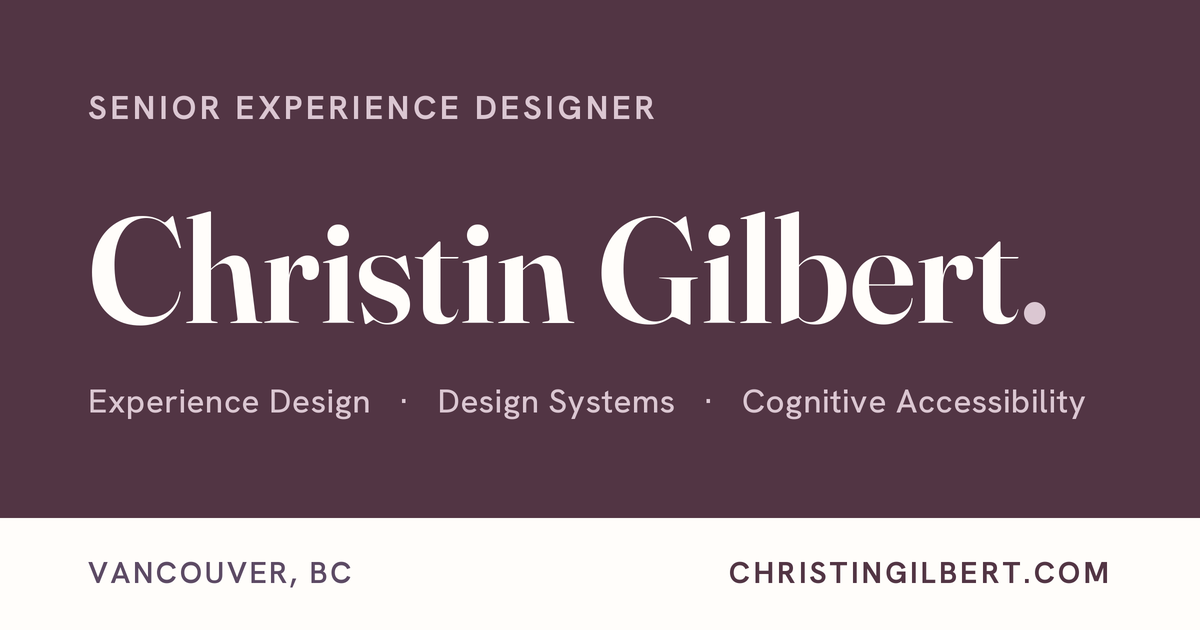
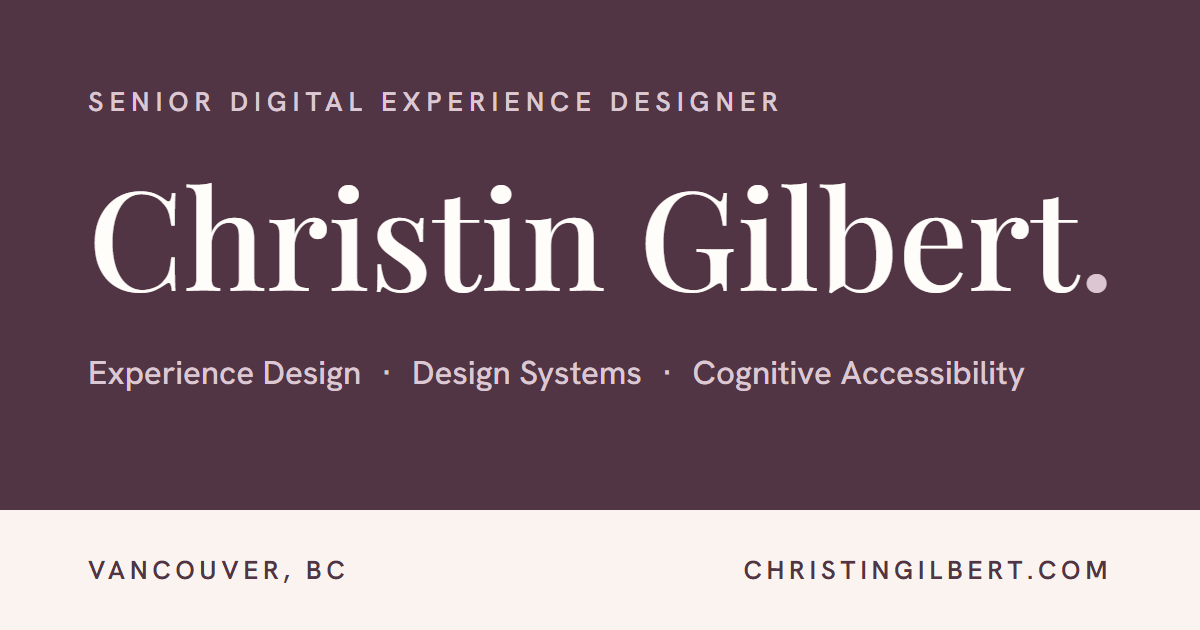
Update title to Senior Digital Experience Designer

diff --git a/about.html b/about.html
@@ -7,7 +7,7 @@
   <link rel="icon" type="image/png" sizes="32x32" href="favicon.png">
   <link rel="icon" type="image/png" sizes="192x192" href="favicon-192.png">
   <link rel="apple-touch-icon" href="favicon-180.png">
-  <title>Christin Gilbert, About | Senior Experience Designer</title>
+  <title>Christin Gilbert, About | Senior Digital Experience Designer</title>
   <link rel="preconnect" href="https://fonts.googleapis.com" />
   <link rel="preconnect" href="https://fonts.gstatic.com" crossorigin />
   <link href="https://fonts.googleapis.com/css2?family=Playfair+Display:ital,wght@0,400;1,400&family=Hanken+Grotesk:ital,wght@0,400;0,500;0,600;0,700;1,400&family=Fraunces:ital,wght@0,400;0,560;0,600;1,500&display=swap" rel="stylesheet" />
@@ -478,23 +478,23 @@ footer {
   
 .nav-name:hover { opacity: 0.78; }</style>
 
-  <meta name="description" content="Senior Experience Designer in Vancouver, BC, working across product design, design systems and accessibility, from reservation interfaces in 2005 to a live stay-choosing prototype in 2026." />
+  <meta name="description" content="Senior Digital Experience Designer in Vancouver, BC, working across product design, design systems and accessibility, from reservation interfaces in 2005 to a live stay-choosing prototype in 2026." />
   <meta name="author" content="Christin Gilbert" />
   <link rel="canonical" href="https://christingilbert.com/about.html" />
-  <meta property="og:title" content="Christin Gilbert, About | Senior Experience Designer" />
-  <meta property="og:description" content="Senior Experience Designer in Vancouver, BC, working across product design, design systems and accessibility, from reservation interfaces in 2005 to a live stay-choosing prototype in 2026." />
+  <meta property="og:title" content="Christin Gilbert, About | Senior Digital Experience Designer" />
+  <meta property="og:description" content="Senior Digital Experience Designer in Vancouver, BC, working across product design, design systems and accessibility, from reservation interfaces in 2005 to a live stay-choosing prototype in 2026." />
   <meta property="og:url" content="https://christingilbert.com/about.html" />
   <meta property="og:image" content="https://christingilbert.com/og-image.png" />
   <meta property="og:image:secure_url" content="https://christingilbert.com/og-image.png">
   <meta property="og:image:type" content="image/png">
   <meta property="og:image:width" content="1200">
   <meta property="og:image:height" content="630">
-  <meta property="og:image:alt" content="Christin Gilbert, About | Senior Experience Designer">
+  <meta property="og:image:alt" content="Christin Gilbert, About | Senior Digital Experience Designer">
   <meta property="og:type" content="website" />
   <meta property="og:site_name" content="Christin Gilbert" />
   <meta name="twitter:card" content="summary_large_image" />
-  <meta name="twitter:title" content="Christin Gilbert, About | Senior Experience Designer" />
-  <meta name="twitter:description" content="Senior Experience Designer in Vancouver, BC, working across product design, design systems and accessibility, from reservation interfaces in 2005 to a live stay-choosing prototype in 2026." />
+  <meta name="twitter:title" content="Christin Gilbert, About | Senior Digital Experience Designer" />
+  <meta name="twitter:description" content="Senior Digital Experience Designer in Vancouver, BC, working across product design, design systems and accessibility, from reservation interfaces in 2005 to a live stay-choosing prototype in 2026." />
   <meta name="twitter:image" content="https://christingilbert.com/og-image.png" />
   <!-- Google tag (gtag.js) -->
   <script async src="https://www.googletagmanager.com/gtag/js?id=G-2RJS395ZQM"></script>
@@ -628,7 +628,7 @@ body::after {
 
     <section class="beat">
       <div class="beat-inner">
-        <p>I'm Christin Gilbert, a Senior Experience Designer based in Vancouver. I've always been fascinated by the boundaries of human cognition: how people compare, choose, pivot and rethink when information demands too much of our attention. My work spans experience design, content structure, cognitive accessibility and visual systems. I think about the structural aspects of the information and what can be removed to allow easier decision making.</p>
+        <p>I'm Christin Gilbert, a Senior Digital Experience Designer based in Vancouver. I've always been fascinated by the boundaries of human cognition: how people compare, choose, pivot and rethink when information demands too much of our attention. My work spans experience design, content structure, cognitive accessibility and visual systems. I think about the structural aspects of the information and what can be removed to allow easier decision making.</p>
         <div class="page-header-photo">
         <div class="about-photo-wrap">
           <img src="about-photo-bw.jpg" alt="Christin Gilbert" class="about-photo" />

diff --git a/index.html b/index.html
@@ -7,7 +7,7 @@
   <link rel="icon" type="image/png" sizes="32x32" href="favicon.png">
   <link rel="icon" type="image/png" sizes="192x192" href="favicon-192.png">
   <link rel="apple-touch-icon" href="favicon-180.png">
-<title>Christin Gilbert, Senior Experience Designer | Vancouver, BC</title>
+<title>Christin Gilbert, Senior Digital Experience Designer | Vancouver, BC</title>
 <script>try{if(localStorage.getItem('cg-reading-focus')==='1')document.documentElement.classList.add('reading-focus');}catch(e){}</script>
 <link rel="preconnect" href="https://fonts.googleapis.com">
 <link rel="preconnect" href="https://fonts.gstatic.com" crossorigin>
@@ -1718,23 +1718,23 @@ body::after {
 
 </style>
 
-  <meta name="description" content="Senior Experience Designer in Vancouver, BC, cognitive accessibility, digital experience design and design systems. Designing for the moments when people have the least attention to spare." />
+  <meta name="description" content="Senior Digital Experience Designer in Vancouver, BC, cognitive accessibility, digital experience design and design systems. Designing for the moments when people have the least attention to spare." />
   <meta name="author" content="Christin Gilbert" />
   <link rel="canonical" href="https://christingilbert.com/" />
-  <meta property="og:title" content="Christin Gilbert, Senior Experience Designer | Vancouver, BC" />
-  <meta property="og:description" content="Senior Experience Designer in Vancouver, BC, cognitive accessibility, digital experience design and design systems. Designing for the moments when people have the least attention to spare." />
+  <meta property="og:title" content="Christin Gilbert, Senior Digital Experience Designer | Vancouver, BC" />
+  <meta property="og:description" content="Senior Digital Experience Designer in Vancouver, BC, cognitive accessibility, digital experience design and design systems. Designing for the moments when people have the least attention to spare." />
   <meta property="og:url" content="https://christingilbert.com/" />
   <meta property="og:image" content="https://christingilbert.com/og-image.png" />
   <meta property="og:image:secure_url" content="https://christingilbert.com/og-image.png">
   <meta property="og:image:type" content="image/png">
   <meta property="og:image:width" content="1200">
   <meta property="og:image:height" content="630">
-  <meta property="og:image:alt" content="Christin Gilbert, Senior Experience Designer | Vancouver, BC">
+  <meta property="og:image:alt" content="Christin Gilbert, Senior Digital Experience Designer | Vancouver, BC">
   <meta property="og:type" content="website" />
   <meta property="og:site_name" content="Christin Gilbert" />
   <meta name="twitter:card" content="summary_large_image" />
-  <meta name="twitter:title" content="Christin Gilbert, Senior Experience Designer | Vancouver, BC" />
-  <meta name="twitter:description" content="Senior Experience Designer in Vancouver, BC, cognitive accessibility, digital experience design and design systems. Designing for the moments when people have the least attention to spare." />
+  <meta name="twitter:title" content="Christin Gilbert, Senior Digital Experience Designer | Vancouver, BC" />
+  <meta name="twitter:description" content="Senior Digital Experience Designer in Vancouver, BC, cognitive accessibility, digital experience design and design systems. Designing for the moments when people have the least attention to spare." />
   <meta name="twitter:image" content="https://christingilbert.com/og-image.png" />
   <!-- Google tag (gtag.js) -->
   <script async src="https://www.googletagmanager.com/gtag/js?id=G-2RJS395ZQM"></script>
@@ -1774,7 +1774,7 @@ body::after {
   </div>
   <div class="hero-scrim"></div>
   <div class="hero-left">
-    <span class="hero-eyebrow">Senior Experience Designer &middot; Vancouver, BC</span>
+    <span class="hero-eyebrow">Senior Digital Experience Designer &middot; Vancouver, BC</span>
     <h1 class="hero-name">Making digital experiences more cognitively accessible</h1>
     <p class="hero-tagline">Hi, I'm Christin. What does a person actually need at the moment they decide, with fifteen tabs open, too many options and little attention left? My first reservation interfaces were for campground booking software in 2005. My work has grown from individual interfaces to thinking more broadly about how content and systems can make space for different ways of thinking.</p>
     <div class="hero-cta">

diff --git a/work.html b/work.html
@@ -7,7 +7,7 @@
   <link rel="icon" type="image/png" sizes="32x32" href="favicon.png">
   <link rel="icon" type="image/png" sizes="192x192" href="favicon-192.png">
   <link rel="apple-touch-icon" href="favicon-180.png">
-<title>Case Studies – Christin Gilbert, Senior Experience Designer</title>
+<title>Case Studies – Christin Gilbert, Senior Digital Experience Designer</title>
 <link rel="preconnect" href="https://fonts.googleapis.com">
 <link rel="preconnect" href="https://fonts.gstatic.com" crossorigin>
 <link href="https://fonts.googleapis.com/css2?family=Playfair+Display:ital,wght@0,400;1,400&family=Hanken+Grotesk:ital,wght@0,400;0,500;0,600;0,700;1,400&family=Fraunces:ital,wght@0,400;0,560;0,600;1,500&display=swap" rel="stylesheet">
@@ -552,23 +552,23 @@ html.reading-focus { font-size: 112%; }
   
 .nav-name:hover { opacity: 0.78; }</style>
 
-  <meta name="description" content="Senior Experience Designer case studies: digital experience design, information architecture, design systems and AI-enabled production, by Christin Gilbert." />
+  <meta name="description" content="Senior Digital Experience Designer case studies: digital experience design, information architecture, design systems and AI-enabled production, by Christin Gilbert." />
   <meta name="author" content="Christin Gilbert" />
   <link rel="canonical" href="https://christingilbert.com/work.html" />
-  <meta property="og:title" content="Case Studies – Christin Gilbert, Senior Experience Designer" />
-  <meta property="og:description" content="Senior Experience Designer case studies: digital experience design, information architecture, design systems and AI-enabled production, by Christin Gilbert." />
+  <meta property="og:title" content="Case Studies – Christin Gilbert, Senior Digital Experience Designer" />
+  <meta property="og:description" content="Senior Digital Experience Designer case studies: digital experience design, information architecture, design systems and AI-enabled production, by Christin Gilbert." />
   <meta property="og:url" content="https://christingilbert.com/work.html" />
   <meta property="og:image" content="https://christingilbert.com/og-image.png" />
   <meta property="og:image:secure_url" content="https://christingilbert.com/og-image.png">
   <meta property="og:image:type" content="image/png">
   <meta property="og:image:width" content="1200">
   <meta property="og:image:height" content="630">
-  <meta property="og:image:alt" content="Case Studies – Christin Gilbert, Senior Experience Designer">
+  <meta property="og:image:alt" content="Case Studies – Christin Gilbert, Senior Digital Experience Designer">
   <meta property="og:type" content="website" />
   <meta property="og:site_name" content="Christin Gilbert" />
   <meta name="twitter:card" content="summary_large_image" />
-  <meta name="twitter:title" content="Case Studies – Christin Gilbert, Senior Experience Designer" />
-  <meta name="twitter:description" content="Senior Experience Designer case studies: digital experience design, information architecture, design systems and AI-enabled production, by Christin Gilbert." />
+  <meta name="twitter:title" content="Case Studies – Christin Gilbert, Senior Digital Experience Designer" />
+  <meta name="twitter:description" content="Senior Digital Experience Designer case studies: digital experience design, information architecture, design systems and AI-enabled production, by Christin Gilbert." />
   <meta name="twitter:image" content="https://christingilbert.com/og-image.png" />
   <!-- Google tag (gtag.js) -->
   <script async src="https://www.googletagmanager.com/gtag/js?id=G-2RJS395ZQM"></script>

diff --git a/resume.html b/resume.html
@@ -7,7 +7,7 @@
   <link rel="icon" type="image/png" sizes="32x32" href="favicon.png">
   <link rel="icon" type="image/png" sizes="192x192" href="favicon-192.png">
   <link rel="apple-touch-icon" href="favicon-180.png">
-  <title>Resume – Christin Gilbert | Senior Experience Designer</title>
+  <title>Resume – Christin Gilbert | Senior Digital Experience Designer</title>
 <meta name="robots" content="noindex, nofollow">
   <link rel="preconnect" href="https://fonts.googleapis.com" />
   <link rel="preconnect" href="https://fonts.gstatic.com" crossorigin />
@@ -507,23 +507,23 @@ html.reading-focus { font-size: 112%; }
   
 .nav-name:hover { opacity: 0.78; }</style>
 
-  <meta name="description" content="Senior experience designer, 15+ years across digital experiences, design systems and cognitive accessibility. Vancouver, BC." />
+  <meta name="description" content="Senior digital experience designer, 15+ years across digital experiences, design systems and cognitive accessibility. Vancouver, BC." />
   <meta name="author" content="Christin Gilbert" />
   <link rel="canonical" href="https://christingilbert.com/resume.html" />
-  <meta property="og:title" content="Resume – Christin Gilbert | Senior Experience Designer" />
-  <meta property="og:description" content="Senior experience designer, 15+ years across digital experiences, design systems and cognitive accessibility. Vancouver, BC." />
+  <meta property="og:title" content="Resume – Christin Gilbert | Senior Digital Experience Designer" />
+  <meta property="og:description" content="Senior digital experience designer, 15+ years across digital experiences, design systems and cognitive accessibility. Vancouver, BC." />
   <meta property="og:url" content="https://christingilbert.com/resume.html" />
   <meta property="og:image" content="https://christingilbert.com/og-image.png" />
   <meta property="og:image:secure_url" content="https://christingilbert.com/og-image.png">
   <meta property="og:image:type" content="image/png">
   <meta property="og:image:width" content="1200">
   <meta property="og:image:height" content="630">
-  <meta property="og:image:alt" content="Resume – Christin Gilbert | Senior Experience Designer">
+  <meta property="og:image:alt" content="Resume – Christin Gilbert | Senior Digital Experience Designer">
   <meta property="og:type" content="website" />
   <meta property="og:site_name" content="Christin Gilbert" />
   <meta name="twitter:card" content="summary_large_image" />
-  <meta name="twitter:title" content="Resume – Christin Gilbert | Senior Experience Designer" />
-  <meta name="twitter:description" content="Senior experience designer, 15+ years across digital experiences, design systems and cognitive accessibility. Vancouver, BC." />
+  <meta name="twitter:title" content="Resume – Christin Gilbert | Senior Digital Experience Designer" />
+  <meta name="twitter:description" content="Senior digital experience designer, 15+ years across digital experiences, design systems and cognitive accessibility. Vancouver, BC." />
   <meta name="twitter:image" content="https://christingilbert.com/og-image.png" />
   <!-- Google tag (gtag.js) -->
   <script async src="https://www.googletagmanager.com/gtag/js?id=G-2RJS395ZQM"></script>

diff --git a/thinking.html b/thinking.html
@@ -4,7 +4,7 @@
   <link rel="icon" type="image/png" sizes="32x32" href="favicon.png">
   <link rel="icon" type="image/png" sizes="192x192" href="favicon-192.png">
   <link rel="apple-touch-icon" href="favicon-180.png">
-<title>Christin Gilbert, Senior Experience Designer</title>
+<title>Christin Gilbert, Senior Digital Experience Designer</title>
 <meta http-equiv="refresh" content="0; url=https://christingilbert.com/writing.html">
 <link rel="canonical" href="https://christingilbert.com/writing.html">
 </head><body>

diff --git a/publications.html b/publications.html
@@ -4,7 +4,7 @@
   <link rel="icon" type="image/png" sizes="32x32" href="favicon.png">
   <link rel="icon" type="image/png" sizes="192x192" href="favicon-192.png">
   <link rel="apple-touch-icon" href="favicon-180.png">
-<title>Christin Gilbert, Senior Experience Designer</title>
+<title>Christin Gilbert, Senior Digital Experience Designer</title>
 <meta http-equiv="refresh" content="0; url=https://christingilbert.com/about.html">
 <link rel="canonical" href="https://christingilbert.com/about.html">
 </head><body>

diff --git a/case-study-ai-snack-learn.html b/case-study-ai-snack-learn.html
@@ -4,7 +4,7 @@
   <link rel="icon" type="image/png" sizes="32x32" href="favicon.png">
   <link rel="icon" type="image/png" sizes="192x192" href="favicon-192.png">
   <link rel="apple-touch-icon" href="favicon-180.png">
-<title>Christin Gilbert, Senior Experience Designer</title>
+<title>Christin Gilbert, Senior Digital Experience Designer</title>
 <meta http-equiv="refresh" content="0; url=https://christingilbert.com/work.html">
 <link rel="canonical" href="https://christingilbert.com/work.html">
 </head><body>

diff --git a/case-study-creative-production-system.html b/case-study-creative-production-system.html
@@ -4,7 +4,7 @@
   <link rel="icon" type="image/png" sizes="32x32" href="favicon.png">
   <link rel="icon" type="image/png" sizes="192x192" href="favicon-192.png">
   <link rel="apple-touch-icon" href="favicon-180.png">
-<title>Christin Gilbert, Senior Experience Designer</title>
+<title>Christin Gilbert, Senior Digital Experience Designer</title>
 <meta http-equiv="refresh" content="0; url=https://christingilbert.com/work.html">
 <link rel="canonical" href="https://christingilbert.com/work.html">
 </head><body>

diff --git a/case-study-digital-style-guide.html b/case-study-digital-style-guide.html
@@ -4,7 +4,7 @@
   <link rel="icon" type="image/png" sizes="32x32" href="favicon.png">
   <link rel="icon" type="image/png" sizes="192x192" href="favicon-192.png">
   <link rel="apple-touch-icon" href="favicon-180.png">
-<title>Christin Gilbert, Senior Experience Designer</title>
+<title>Christin Gilbert, Senior Digital Experience Designer</title>
 <meta http-equiv="refresh" content="0; url=https://christingilbert.com/work.html">
 <link rel="canonical" href="https://christingilbert.com/work.html">
 </head><body>

diff --git a/case-study-from-brief-to-screen.html b/case-study-from-brief-to-screen.html
@@ -4,7 +4,7 @@
   <link rel="icon" type="image/png" sizes="32x32" href="favicon.png">
   <link rel="icon" type="image/png" sizes="192x192" href="favicon-192.png">
   <link rel="apple-touch-icon" href="favicon-180.png">
-<title>Christin Gilbert, Senior Experience Designer</title>
+<title>Christin Gilbert, Senior Digital Experience Designer</title>
 <meta http-equiv="refresh" content="0; url=https://christingilbert.com/work.html">
 <link rel="canonical" href="https://christingilbert.com/work.html">
 </head><body>

diff --git a/case-study-merapi.html b/case-study-merapi.html
@@ -4,7 +4,7 @@
   <link rel="icon" type="image/png" sizes="32x32" href="favicon.png">
   <link rel="icon" type="image/png" sizes="192x192" href="favicon-192.png">
   <link rel="apple-touch-icon" href="favicon-180.png">
-<title>Christin Gilbert, Senior Experience Designer</title>
+<title>Christin Gilbert, Senior Digital Experience Designer</title>
 <meta http-equiv="refresh" content="0; url=https://christingilbert.com/work.html">
 <link rel="canonical" href="https://christingilbert.com/work.html">
 </head><body>

diff --git a/case-study-sienna-vr.html b/case-study-sienna-vr.html
@@ -4,7 +4,7 @@
   <link rel="icon" type="image/png" sizes="32x32" href="favicon.png">
   <link rel="icon" type="image/png" sizes="192x192" href="favicon-192.png">
   <link rel="apple-touch-icon" href="favicon-180.png">
-<title>Christin Gilbert, Senior Experience Designer</title>
+<title>Christin Gilbert, Senior Digital Experience Designer</title>
 <meta http-equiv="refresh" content="0; url=https://christingilbert.com/work.html">
 <link rel="canonical" href="https://christingilbert.com/work.html">
 </head><body>
